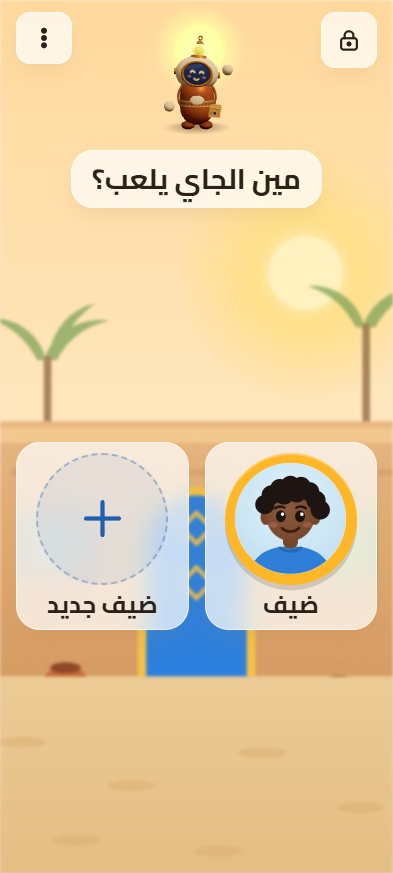
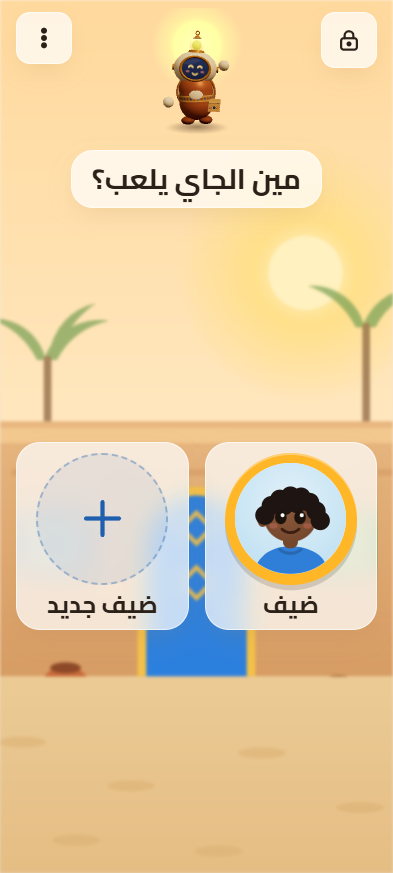
أفاتار ضيوف متنوعة بثلاث أعمار وأغطية رأس محتشمة، بحر أحمر عائم بزوايا دائرية، ترحيب أعلى المشهد، طفو سراج وتمايل النخيل، وشريط علوي أنسب للهاتف

Changed region(s): [[0.6412, 0.5258, 0.855, 0.6495], [0.3969, 0.0309, 0.6107, 0.1546]]

diff --git a/app/src/ui/GuestAvatars.tsx b/app/src/ui/GuestAvatars.tsx
@@ -1,77 +1,118 @@
-// Eight illustrated Sudanese children for guest mode, drawn in code (vector, crisp at any size, ~1 KB each).
-// Warm brown skin tones, varied hair, one girl with a tarha (headscarf), one boy in a white jalabiya collar.
+// Twelve illustrated Sudanese children for guest mode, drawn in code (vector, crisp at any size, ~1 KB each).
+// Three ages (small, middle, older) with their own proportions; warm brown skin tones; boys with varied hair, a white
+// jalabiya, a school shirt, a white taqiya, glasses; girls always modestly covered: colourful patterned tarhas, a
+// hijab wrapped round the face, and a niqab for older girls. Ids g1..g8 keep their place so saved guests keep theirs.
 
+type Age = 'small' | 'mid' | 'teen';
 type Look = {
-  id: string; gender: 'm' | 'f'; skin: string; skinShade: string; hair: string; hairStyle: 'curly' | 'short' | 'puffs' | 'braids' | 'tarha' | 'fade' | 'bun';
-  bg: string; shirt: string; collar?: 'jalabiya' | 'round' | 'school'; scarf?: string;
+  id: string; gender: 'm' | 'f'; age: Age; skin: string; skinShade: string; hair: string;
+  hairStyle?: 'curly' | 'short' | 'fade' | 'taqiya';
+  cover?: 'tarha' | 'hijab' | 'niqab'; scarf?: string; trim?: string; pattern?: 'dots' | 'stripes' | 'flowers';
+  bg: string; shirt: string; collar?: 'jalabiya' | 'round' | 'school'; glasses?: boolean;
 };
 
 export const GUEST_AVATARS: Look[] = [
-  { id: 'g1', gender: 'm', skin: '#8D5A3B', skinShade: '#74472C', hair: '#1E1512', hairStyle: 'curly', bg: '#BFE0F2', shirt: '#2F7FD8', collar: 'round' },
-  { id: 'g2', gender: 'm', skin: '#6E432B', skinShade: '#58331F', hair: '#16100D', hairStyle: 'fade', bg: '#FFE3A8', shirt: '#FFFFFF', collar: 'jalabiya' },
-  { id: 'g3', gender: 'm', skin: '#A06A45', skinShade: '#86553A', hair: '#2A1C15', hairStyle: 'short', bg: '#CFEBD3', shirt: '#1F9D61', collar: 'school' },
-  { id: 'g4', gender: 'm', skin: '#7A4A30', skinShade: '#633A24', hair: '#1A120E', hairStyle: 'curly', bg: '#F9D3C2', shirt: '#E8892B', collar: 'round' },
-  { id: 'g5', gender: 'f', skin: '#8D5A3B', skinShade: '#74472C', hair: '#1E1512', hairStyle: 'puffs', bg: '#F8D1E2', shirt: '#D9558F', collar: 'round' },
-  { id: 'g6', gender: 'f', skin: '#A06A45', skinShade: '#86553A', hair: '#2A1C15', hairStyle: 'tarha', bg: '#DCD3F3', shirt: '#7B61C9', scarf: '#F3B9CF' },
-  { id: 'g7', gender: 'f', skin: '#6E432B', skinShade: '#58331F', hair: '#16100D', hairStyle: 'braids', bg: '#FFE3A8', shirt: '#FFB627', collar: 'school' },
-  { id: 'g8', gender: 'f', skin: '#7A4A30', skinShade: '#633A24', hair: '#1A120E', hairStyle: 'bun', bg: '#BFE0F2', shirt: '#1F5FAD', collar: 'round' },
+  { id: 'g1', gender: 'm', age: 'small', skin: '#8D5A3B', skinShade: '#74472C', hair: '#1E1512', hairStyle: 'curly', bg: '#BFE0F2', shirt: '#2F7FD8', collar: 'round' },
+  { id: 'g2', gender: 'm', age: 'mid', skin: '#6E432B', skinShade: '#58331F', hair: '#16100D', hairStyle: 'fade', bg: '#FFE3A8', shirt: '#FFFFFF', collar: 'jalabiya' },
+  { id: 'g3', gender: 'm', age: 'teen', skin: '#A06A45', skinShade: '#86553A', hair: '#2A1C15', hairStyle: 'short', bg: '#CFEBD3', shirt: '#1F9D61', collar: 'school', glasses: true },
+  { id: 'g4', gender: 'm', age: 'small', skin: '#5E3824', skinShade: '#4A2A1A', hair: '#1A120E', hairStyle: 'curly', bg: '#F9D3C2', shirt: '#E8892B', collar: 'round' },
+  { id: 'g9', gender: 'm', age: 'mid', skin: '#93603F', skinShade: '#7A4C30', hair: '#1E1512', hairStyle: 'taqiya', bg: '#D7ECF7', shirt: '#FFFFFF', collar: 'jalabiya' },
+  { id: 'g10', gender: 'm', age: 'teen', skin: '#7A4A30', skinShade: '#633A24', hair: '#16100D', hairStyle: 'fade', bg: '#E6DDF7', shirt: '#5A4FB8', collar: 'round' },
+  { id: 'g5', gender: 'f', age: 'small', skin: '#8D5A3B', skinShade: '#74472C', hair: '#1E1512', cover: 'tarha', scarf: '#F07FAE', trim: '#FFFFFF', pattern: 'dots', bg: '#F8D1E2', shirt: '#D9558F', collar: 'round' },
+  { id: 'g6', gender: 'f', age: 'mid', skin: '#A06A45', skinShade: '#86553A', hair: '#2A1C15', cover: 'tarha', scarf: '#9C7FE0', trim: '#F5D36B', pattern: 'flowers', bg: '#DCD3F3', shirt: '#7B61C9' },
+  { id: 'g7', gender: 'f', age: 'small', skin: '#6E432B', skinShade: '#58331F', hair: '#16100D', cover: 'tarha', scarf: '#FFC23A', trim: '#E8892B', pattern: 'stripes', bg: '#FFE3A8', shirt: '#1FA3A3', collar: 'school' },
+  { id: 'g8', gender: 'f', age: 'teen', skin: '#7A4A30', skinShade: '#633A24', hair: '#1A120E', cover: 'hijab', scarf: '#2F5FA8', trim: '#8FB8EC', bg: '#BFE0F2', shirt: '#1F4F8F' },
+  { id: 'g11', gender: 'f', age: 'teen', skin: '#93603F', skinShade: '#7A4C30', hair: '#1A120E', cover: 'niqab', scarf: '#3A2C45', trim: '#B98FD0', bg: '#EFE3D2', shirt: '#3A2C45' },
+  { id: 'g12', gender: 'f', age: 'mid', skin: '#5E3824', skinShade: '#4A2A1A', hair: '#16100D', cover: 'hijab', scarf: '#2E9A6A', trim: '#BFE8CF', pattern: 'dots', bg: '#D6F0DE', shirt: '#1F7A52' },
 ];
 
-function Hair({ l }: { l: Look }) {
-  const h = l.hair;
+/** face proportions per age: small children have rounder faces and bigger eyes */
+const FACE: Record<Age, { rx: number; ry: number; cy: number; eye: number; eyeY: number; shoulders: number }> = {
+  small: { rx: 25, ry: 24, cy: 50, eye: 5.4, eyeY: 51, shoulders: 22 },
+  mid: { rx: 23, ry: 25, cy: 48, eye: 4.7, eyeY: 50, shoulders: 26 },
+  teen: { rx: 21, ry: 27, cy: 46, eye: 3.9, eyeY: 47, shoulders: 30 },
+};
+
+function Hair({ l, f }: { l: Look; f: typeof FACE[Age] }) {
+  const h = l.hair, top = f.cy - f.ry;
   switch (l.hairStyle) {
     case 'curly':
-      return <g fill={h}>{[[34, 30], [42, 24], [52, 21], [62, 22], [70, 27], [76, 35], [28, 39], [80, 44], [46, 30], [58, 28]].map(([x, y], i) => <circle key={i} cx={x} cy={y} r={9} />)}</g>;
+      return <g fill={h}>{[[34, 8], [42, 2], [52, -1], [62, 0], [70, 5], [76, 13], [28, 17], [80, 22], [46, 8], [58, 6]].map(([x, y], i) => <circle key={i} cx={x} cy={top + 6 + y} r={9} />)}</g>;
     case 'fade':
-      return <path d="M27 50c-2-17 9-29 25-29s27 12 25 29c-3-8-9-12-25-12s-22 4-25 12z" fill={h} />;
+      return <path d={`M${52 - f.rx - 2} ${f.cy}c-2-17 9-${f.ry + 4} ${f.rx + 2}-${f.ry + 4}s27 12 25 29c-3-8-9-12-25-12s-22 4-25 12z`} fill={h} transform={`translate(0 ${-2})`} />;
     case 'short':
-      return <path d="M26 48c-1-16 10-27 26-27 14 0 25 9 26 23-6-6-14-9-26-9-11 0-19 5-26 13z" fill={h} />;
-    case 'puffs':
-      return <g fill={h}><circle cx="24" cy="30" r="12" /><circle cx="80" cy="30" r="12" /><path d="M28 48c-1-15 10-26 24-26s25 11 24 26c-5-8-13-12-24-12s-19 4-24 12z" /></g>;
-    case 'braids':
-      return <g fill={h}><path d="M27 50c-2-17 9-29 25-29s27 12 25 29c-4-9-12-13-25-13s-21 4-25 13z" />
-        {[0, 1, 2].map(i => <circle key={'l' + i} cx={24} cy={56 + i * 9} r={5} />)}{[0, 1, 2].map(i => <circle key={'r' + i} cx={80} cy={56 + i * 9} r={5} />)}</g>;
-    case 'bun':
-      return <g fill={h}><circle cx="52" cy="17" r="10" /><path d="M27 50c-2-17 9-29 25-29s27 12 25 29c-4-9-12-13-25-13s-21 4-25 13z" /></g>;
-    case 'tarha':
-      return <path d="M18 104c0-34 4-52 10-62 6-12 14-19 24-19s18 7 24 19c6 10 10 28 10 62z" fill={l.scarf} />;
+      return <path d={`M${52 - f.rx - 1} ${f.cy}c-1-16 10-${f.ry + 2} ${f.rx + 1}-${f.ry + 2} 14 0 25 9 26 23-6-6-14-9-26-9-11 0-19 5-26 13z`} fill={h} />;
+    case 'taqiya':   // white crocheted cap over short hair
+      return <g><path d={`M${52 - f.rx} ${f.cy - 4}c0-14 10-${f.ry - 2} ${f.rx}-${f.ry - 2}s${f.rx} ${f.ry - 16} ${f.rx} ${f.ry - 2}z`} fill="#F7F3EA" />
+        {[0, 1, 2, 3, 4].map(i => <circle key={i} cx={36 + i * 8} cy={f.cy - 10} r={1.4} fill="#D9CFBC" />)}</g>;
+    default: return null;
   }
+}
+
+function Pattern({ l, id }: { l: Look; id: string }) {
+  if (!l.pattern || !l.trim) return null;
+  return (
+    <pattern id={id} width="10" height="10" patternUnits="userSpaceOnUse">
+      {l.pattern === 'dots' && <circle cx="5" cy="5" r="1.6" fill={l.trim} opacity=".85" />}
+      {l.pattern === 'stripes' && <rect width="10" height="2.6" fill={l.trim} opacity=".7" />}
+      {l.pattern === 'flowers' && <g fill={l.trim} opacity=".9"><circle cx="5" cy="3.6" r="1.3" /><circle cx="3.6" cy="5.4" r="1.3" /><circle cx="6.4" cy="5.4" r="1.3" /></g>}
+    </pattern>
+  );
 }
 
 export function GuestAvatar({ id, size = 112 }: { id: string; size?: number }) {
   const l = GUEST_AVATARS.find(a => a.id === id) ?? GUEST_AVATARS[0];
-  const uid = 'ga-' + l.id;
+  const f = FACE[l.age], uid = 'ga-' + l.id;
+  const scarfFill = l.pattern ? `url(#${uid}-pat)` : l.scarf;
+  const covered = !!l.cover;
   return (
     <svg width={size} height={size} viewBox="0 0 104 104" role="img" aria-label={l.gender === 'f' ? 'صورة بنت' : 'صورة ولد'}>
       <defs>
         <radialGradient id={uid + '-bg'} cx="50%" cy="35%" r="70%"><stop offset="0" stopColor="#fff" stopOpacity=".55" /><stop offset="1" stopColor="#fff" stopOpacity="0" /></radialGradient>
         <radialGradient id={uid + '-face'} cx="42%" cy="38%" r="65%"><stop offset="0" stopColor={l.skin} /><stop offset="1" stopColor={l.skinShade} /></radialGradient>
         <clipPath id={uid + '-c'}><circle cx="52" cy="52" r="52" /></clipPath>
+        <Pattern l={l} id={uid + '-pat'} />
       </defs>
       <g clipPath={`url(#${uid}-c)`}>
         <rect width="104" height="104" fill={l.bg} />
         <rect width="104" height="104" fill={`url(#${uid}-bg)`} />
-        {l.hairStyle === 'tarha' && <Hair l={l} />}
+        {/* the scarf behind the head and over the shoulders */}
+        {covered && <path d={`M${52 - f.shoulders - 16} 104c0-30 6-50 14-${60 - (f.cy - 46)}c6-12 14-19 24-19s18 7 24 19c8 10 14 30 14 ${60 - (f.cy - 46)}z`} fill={l.scarf} />}
+        {covered && l.pattern && <path d={`M${52 - f.shoulders - 16} 104c0-30 6-50 14-${60 - (f.cy - 46)}c6-12 14-19 24-19s18 7 24 19c8 10 14 30 14 ${60 - (f.cy - 46)}z`} fill={scarfFill} />}
         {/* shoulders */}
-        <path d="M14 104c2-18 18-26 38-26s36 8 38 26z" fill={l.shirt} />
-        {l.collar === 'jalabiya' && <path d="M44 79l8 12 8-12" stroke="#E2DACB" strokeWidth="3" fill="none" strokeLinecap="round" />}
-        {l.collar === 'school' && <path d="M40 78l12 9 12-9" fill="#FFFFFF" />}
-        {l.collar === 'round' && <path d="M42 79c5 5 15 5 20 0" stroke="rgba(0,0,0,.18)" strokeWidth="3" fill="none" strokeLinecap="round" />}
-        {/* neck + head */}
-        <rect x="45" y="64" width="14" height="16" rx="6" fill={l.skinShade} />
-        <ellipse cx="29" cy="51" rx="5" ry="7" fill={l.skinShade} />
-        <ellipse cx="75" cy="51" rx="5" ry="7" fill={l.skinShade} />
-        <ellipse cx="52" cy="48" rx="23" ry="25" fill={`url(#${uid}-face)`} />
-        {l.hairStyle !== 'tarha' ? <Hair l={l} /> : <path d="M29 44c2-14 11-21 23-21s21 7 23 21c-6-7-14-10-23-10s-17 3-23 10z" fill={l.scarf} opacity=".9" />}
-        {/* face */}
-        <ellipse cx="43" cy="50" rx="4.6" ry="5.4" fill="#1B120D" />
-        <ellipse cx="61" cy="50" rx="4.6" ry="5.4" fill="#1B120D" />
-        <circle cx="44.6" cy="48" r="1.6" fill="#fff" />
-        <circle cx="62.6" cy="48" r="1.6" fill="#fff" />
-        <path d="M37.5 42.5c2.5-2 6.5-2.2 9-.6M57.5 41.9c2.5-1.6 6.5-1.4 9 .6" stroke={l.hair} strokeWidth="2.2" strokeLinecap="round" fill="none" />
-        <ellipse cx="36" cy="58" rx="4" ry="2.6" fill="#E0726A" opacity=".35" />
-        <ellipse cx="68" cy="58" rx="4" ry="2.6" fill="#E0726A" opacity=".35" />
-        <path d="M44 61c4.5 4.5 11.5 4.5 16 0" stroke="#3B1F14" strokeWidth="2.6" strokeLinecap="round" fill="none" />
+        {!covered || l.cover === 'tarha' ? <path d={`M${52 - f.shoulders - 12} 104c2-18 18-26 ${f.shoulders + 12}-26s36 8 ${f.shoulders + 12} 26z`} fill={l.shirt} /> : null}
+        {l.collar === 'jalabiya' && <path d="M44 81l8 12 8-12" stroke="#E2DACB" strokeWidth="3" fill="none" strokeLinecap="round" />}
+        {l.collar === 'school' && <path d="M40 80l12 9 12-9" fill="#FFFFFF" />}
+        {l.collar === 'round' && <path d="M42 81c5 5 15 5 20 0" stroke="rgba(0,0,0,.18)" strokeWidth="3" fill="none" strokeLinecap="round" />}
+        {/* neck + ears (hidden under a hijab or niqab) */}
+        {l.cover !== 'hijab' && l.cover !== 'niqab' && <rect x="45" y={f.cy + f.ry - 10} width="14" height="16" rx="6" fill={l.skinShade} />}
+        {!covered && <><ellipse cx={52 - f.rx - 1} cy={f.cy + 3} rx="5" ry="7" fill={l.skinShade} /><ellipse cx={52 + f.rx + 1} cy={f.cy + 3} rx="5" ry="7" fill={l.skinShade} /></>}
+        <ellipse cx="52" cy={f.cy} rx={f.rx} ry={f.ry} fill={`url(#${uid}-face)`} />
+        {!covered && <Hair l={l} f={f} />}
+        {/* scarf frame round the face; a hijab also closes under the chin */}
+        {covered && <path d={`M${52 - f.rx - 4} ${f.cy + 6}c0-${f.ry + 2} 10-${f.ry + 10} ${f.rx + 4}-${f.ry + 10}s${f.rx + 4} ${8} ${f.rx + 4} ${f.ry + 10}c-5-${f.ry - 8}-13-${f.ry - 4}-${f.rx + 4}-${f.ry - 4}s-${f.rx - 1} ${4}-${f.rx + 4} ${f.ry - 4}z`} fill={l.scarf} stroke={l.scarf} strokeWidth="1" />}
+        {covered && l.pattern && <path d={`M${52 - f.rx - 4} ${f.cy + 6}c0-${f.ry + 2} 10-${f.ry + 10} ${f.rx + 4}-${f.ry + 10}s${f.rx + 4} ${8} ${f.rx + 4} ${f.ry + 10}c-5-${f.ry - 8}-13-${f.ry - 4}-${f.rx + 4}-${f.ry - 4}s-${f.rx - 1} ${4}-${f.rx + 4} ${f.ry - 4}z`} fill={scarfFill} />}
+        {(l.cover === 'hijab' || l.cover === 'niqab') && <path d={`M${52 - f.rx - 4} ${f.cy + 4}c2 ${f.ry} 12 ${f.ry + 8} ${f.rx + 4} ${f.ry + 8}s${f.rx + 2}-8 ${f.rx + 4}-${f.ry + 8}c-4 ${f.ry - 10}-12 ${f.ry - 4}-${f.rx + 4} ${f.ry - 4}s-${f.rx} -6-${f.rx + 4}-${f.ry - 4}z`} fill={l.scarf} />}
+        {l.cover === 'hijab' && <path d={`M${52 - f.rx - 8} 104c4-14 14-20 ${f.rx + 8}-22s${f.rx + 4} 8 ${f.rx + 8} 22z`} fill={l.scarf} />}
+        {/* eyes and brows */}
+        <ellipse cx="43" cy={f.eyeY} rx={f.eye} ry={f.eye * 1.17} fill="#1B120D" />
+        <ellipse cx="61" cy={f.eyeY} rx={f.eye} ry={f.eye * 1.17} fill="#1B120D" />
+        <circle cx="44.6" cy={f.eyeY - 2} r={f.eye * 0.34} fill="#fff" />
+        <circle cx="62.6" cy={f.eyeY - 2} r={f.eye * 0.34} fill="#fff" />
+        <path d={`M37.5 ${f.eyeY - 7.5}c2.5-2 6.5-2.2 9-.6M57.5 ${f.eyeY - 8.1}c2.5-1.6 6.5-1.4 9 .6`} stroke={l.hair} strokeWidth={l.age === 'teen' ? 2.6 : 2.2} strokeLinecap="round" fill="none" />
+        {l.glasses && <g stroke="#2A1C15" strokeWidth="1.8" fill="rgba(255,255,255,.15)"><circle cx="43" cy={f.eyeY} r="7" /><circle cx="61" cy={f.eyeY} r="7" /><path d={`M50 ${f.eyeY}h4`} /></g>}
+        {/* niqab: the face covered below the eyes, with a soft fold */}
+        {l.cover === 'niqab' ? (
+          <g><path d={`M${52 - f.rx - 3} ${f.eyeY + 7}h${2 * f.rx + 6}c0 ${f.ry} -10 ${f.ry + 8} -${f.rx + 3} ${f.ry + 10}s-${f.rx + 3}-10-${f.rx + 3}-${f.ry + 10}z`} fill={l.scarf} />
+            <path d={`M${52 - f.rx} ${f.eyeY + 8}h${2 * f.rx}`} stroke={l.trim} strokeWidth="2" strokeLinecap="round" />
+            <path d={`M48 ${f.eyeY + 18}c3 3 5 3 8 0`} stroke="rgba(255,255,255,.18)" strokeWidth="2" fill="none" /></g>
+        ) : (
+          <>
+            <ellipse cx="36" cy={f.eyeY + 8} rx="4" ry="2.6" fill="#E0726A" opacity=".35" />
+            <ellipse cx="68" cy={f.eyeY + 8} rx="4" ry="2.6" fill="#E0726A" opacity=".35" />
+            <path d={`M44 ${f.eyeY + 11}c4.5 4.5 11.5 4.5 16 0`} stroke="#3B1F14" strokeWidth="2.6" strokeLinecap="round" fill="none" />
+          </>
+        )}
       </g>
     </svg>
   );

diff --git a/app/src/three/SudanMap.tsx b/app/src/three/SudanMap.tsx
@@ -24,7 +24,6 @@ const OUTLINE: [number, number][] = [
   [27.9, 9.6], [26.6, 10.1], [25.3, 10.3], [24.5, 9.4], [23.6, 9.0], [23.0, 9.9], [22.5, 11.0], [22.8, 12.4], [22.1, 13.2],
   [22.2, 13.9], [22.7, 14.6], [22.9, 15.6], [23.6, 15.9], [24.0, 17.2], [24.0, 19.5],
 ];
-const RED_SEA: [number, number][] = [[36.9, 22.0], [37.15, 21.0], [37.3, 20.2], [37.22, 19.6], [37.35, 19.1], [37.6, 18.7], [38.1, 18.3], [38.6, 18.0], [39.6, 17.6], [42, 17.6], [42, 23.5], [35.6, 23.5]];
 const NILES: [number, number][][] = [
   [[32.75, 12.0], [32.66, 13.17], [32.3, 13.99], [32.4, 14.9], [32.53, 15.6]],                               // White Nile
   [[34.9, 10.95], [34.38, 11.8], [33.9, 12.8], [33.6, 13.55], [33.52, 14.4], [33.1, 15.1], [32.53, 15.6]],       // Blue Nile
@@ -66,22 +65,43 @@ function Rivers() {
   return <group>{tubes.map((g, i) => <mesh key={i} geometry={g}><meshLambertMaterial color={i === 1 ? '#2F6FC0' : '#4FA3D1'} emissive="#1F5FAD" emissiveIntensity={0.15} /></mesh>)}</group>;
 }
 
+/** The Red Sea as a floating water channel with rounded corners, parallel to the east coast (between Sudan and the
+ *  Arabian shore): the same thickness as the land, warm turquoise deepening to the middle, a soft sand rim, its own
+ *  floating shadow and a slow shimmer. */
+const SEA_A = P(37.95, 22.7), SEA_B = P(40.35, 16.45), SEA_W = 1.9, SEA_R = 0.62;
 function Sea() {
-  // shallow turquoise at the coast to deep blue offshore, fading softly at the sea's outer edge
-  const geo = useMemo(() => {
-    const g = new THREE.ShapeGeometry(new THREE.Shape(RED_SEA.map(([a, b]) => P(a, b))), 24);
-    g.rotateX(-Math.PI / 2);
-    const pos = g.attributes.position, xs: number[] = [];
-    for (let i = 0; i < pos.count; i++) xs.push(pos.getX(i));
-    const lo = Math.min(...xs), hi = Math.max(...xs), col = new Float32Array(pos.count * 4);
-    const shallow = new THREE.Color('#5ED6D0'), deep = new THREE.Color('#1F7FA8'), c = new THREE.Color();
-    for (let i = 0; i < pos.count; i++) {
-      const k = (xs[i] - lo) / (hi - lo || 1); c.copy(shallow).lerp(deep, Math.min(1, k * 1.3));
-      col.set([c.r, c.g, c.b, 1 - THREE.MathUtils.smoothstep(k, 0.75, 1) * 0.85], i * 4);
-    }
-    g.setAttribute('color', new THREE.BufferAttribute(col, 4)); return g;
+  const { geo, mid, ang, len, tex } = useMemo(() => {
+    const d = SEA_B.clone().sub(SEA_A), len = d.length(), ang = Math.atan2(d.y, d.x), mid = SEA_A.clone().add(SEA_B).multiplyScalar(0.5);
+    const hw = SEA_W / 2, hl = len / 2, r = SEA_R, sh = new THREE.Shape();
+    sh.moveTo(-hl + r, -hw); sh.lineTo(hl - r, -hw); sh.quadraticCurveTo(hl, -hw, hl, -hw + r); sh.lineTo(hl, hw - r); sh.quadraticCurveTo(hl, hw, hl - r, hw);
+    sh.lineTo(-hl + r, hw); sh.quadraticCurveTo(-hl, hw, -hl, hw - r); sh.lineTo(-hl, -hw + r); sh.quadraticCurveTo(-hl, -hw, -hl + r, -hw);
+    const g = new THREE.ExtrudeGeometry(sh, { depth: LAND_TOP - 0.2, bevelEnabled: true, bevelThickness: 0.2, bevelSize: 0.22, bevelSegments: 3, curveSegments: 10 });
+    // the top is painted by a texture laid over the channel (the extruded cap has no inner points to colour):
+    // a soft sand rim, then warm turquoise deepening towards the middle
+    const cv = document.createElement('canvas'), W = 512, H = Math.round(512 * hw / hl); cv.width = W; cv.height = H;
+    const x = cv.getContext('2d')!, rr = (x0: number, y0: number, w: number, h: number, r: number) => { x.beginPath(); x.roundRect(x0, y0, w, h, r); };
+    x.fillStyle = '#E2C08C'; x.fillRect(0, 0, W, H);
+    const inset = H * 0.11, grad = x.createLinearGradient(0, inset, 0, H - inset);
+    grad.addColorStop(0, '#86E0D6'); grad.addColorStop(0.5, '#2696AE'); grad.addColorStop(1, '#86E0D6');
+    rr(inset, inset, W - 2 * inset, H - 2 * inset, SEA_R / (2 * hw) * H); x.fillStyle = grad; x.fill();
+    for (let i = 0; i < 18; i++) { x.strokeStyle = 'rgba(255,255,255,.18)'; x.lineWidth = 2; const yy = inset + Math.random() * (H - 2 * inset), xx = inset + Math.random() * (W - 2 * inset - 60); x.beginPath(); x.moveTo(xx, yy); x.quadraticCurveTo(xx + 30, yy - 5, xx + 60, yy); x.stroke(); }
+    const tex = new THREE.CanvasTexture(cv); tex.colorSpace = THREE.SRGBColorSpace;
+    tex.repeat.set(1 / (2 * hl), 1 / (2 * hw)); tex.offset.set(0.5, 0.5);
+    return { geo: g, mid, ang, len, tex };
   }, []);
-  return <mesh geometry={geo} position-y={0.12}><meshLambertMaterial vertexColors transparent color="#ffffff" emissive="#0E5A73" emissiveIntensity={0.12} /></mesh>;
+  const ref = useRef<THREE.MeshLambertMaterial>(null!);
+  useFrame(s => { ref.current.emissiveIntensity = 0.1 + Math.sin(s.clock.elapsedTime * 1.1) * 0.04; });
+  const shadow = useMemo(() => {
+    const c = document.createElement('canvas'); c.width = c.height = 128; const x = c.getContext('2d')!;
+    const g = x.createRadialGradient(64, 64, 8, 64, 64, 64); g.addColorStop(0, 'rgba(120,80,40,0.34)'); g.addColorStop(1, 'rgba(120,80,40,0)');
+    x.fillStyle = g; x.fillRect(0, 0, 128, 128); return new THREE.CanvasTexture(c);
+  }, []);
+  return (
+    <group position={[mid.x, 0, -mid.y]} rotation-y={ang}>
+      <group rotation-x={-Math.PI / 2}><mesh geometry={geo}><meshLambertMaterial ref={ref} map={tex} emissive="#0E6A7A" emissiveIntensity={0.1} /></mesh></group>
+      <mesh rotation-x={-Math.PI / 2} position-y={-0.6} scale={[len * 1.25, SEA_W * 2.2, 1]}><planeGeometry /><meshBasicMaterial map={shadow} transparent depthWrite={false} /></mesh>
+    </group>
+  );
 }
 
 /** soft shadow under the floating map (a radial texture, no box) */

diff --git a/app/src/three/town/KassalaTown.tsx b/app/src/three/town/KassalaTown.tsx
@@ -81,7 +81,7 @@ function Static({ w, u, water, density }: { w: World; u: ReviveUniforms; water: 
   const M = {
     ground: useMat(u, { green: w.tint ? 'soft' : true }), plain: useMat(u), river: useMat(u, { offset: 1 }), roads: useMat(u, { offset: 2 }),
     curb: useMat(u, { offset: 3 }), street: useMat(u, { offset: 4 }), rock: useMat(u),
-    tree: useMat(u, { grow: true, sway: 0.03 }), palm: useMat(u, { grow: true, sway: 0.025 }), grass: useMat(u, { grow: true, sway: 0.12, double: true }),
+    tree: useMat(u, { grow: true, sway: 0.03 }), palm: useMat(u, { grow: true, sway: 0.05 }), grass: useMat(u, { grow: true, sway: 0.12, double: true }),
     build: useMat(u, { build: true }), shrub: useMat(u, { grow: true, sway: 0.05 }), side: useMat(u, { offset: 2 }), alley: useMat(u, { offset: 3, appear: true }),
     rock0: useMat(u, { detail: details[0]?.t, detailBox: details[0]?.box }), rock1: useMat(u, { detail: details[1]?.t, detailBox: details[1]?.box }),
   };

diff --git a/app/src/three/Siraj.tsx b/app/src/three/Siraj.tsx
@@ -60,7 +60,8 @@ export function Siraj({ action = 'idle', glow = 0.6, stamps = 0, scale = 1, movi
     if (since.current.action !== action || since.current.t < 0) since.current = { action, t };
     const held = t - since.current.t;
     // breathing + per-action body language
-    let bodyY = Math.sin(t * 2.2) * 0.03, bodyRotZ = 0, headRotZ = Math.sin(t * 1.1) * 0.04, headRotX = 0, headRotY = 0;
+    // a soft, continuous float (he hovers a little and drifts side to side), with his breathing on top
+    let bodyY = 0.06 + Math.sin(t * 1.4) * 0.06 + Math.sin(t * 2.2) * 0.015, bodyRotZ = Math.sin(t * 0.9) * 0.03, headRotZ = Math.sin(t * 1.1) * 0.04, headRotX = 0, headRotY = 0;
     let lx = -0.62, ly = 0.55 + Math.sin(t * 2.2 + 1) * 0.04, rx = 0.62, ry = 0.55 + Math.sin(t * 2.2) * 0.04;
     let face: Face = FACE_OF[action];
     switch (action) {

diff --git a/app/src/styles/theme.css b/app/src/styles/theme.css
@@ -142,3 +142,13 @@ input[type=range].vol { width: 100%; accent-color: var(--c-gold); height: 36px; 
 .certificate b { font-size: 22px; }
 .stamp-title { display: flex; flex-direction: column; gap: 2px; }
 .stamp-place { font-size: 18px; font-weight: 700; color: var(--c-inkSoft); }
+
+/* phones: the world title capsule stays clear of the menu button */
+@media (max-width: 480px) {
+  .topbar { gap: 6px; }
+  .topbar-title { max-width: 46vw; font-size: 18px; }
+  .path .topbar .world-pill { gap: 8px; padding: 0 12px; min-height: 44px; }
+  .path .topbar .world-pill-name { font-size: 18px; white-space: nowrap; }
+  .path .topbar .world-pill-bar { width: 44px; }
+  .player-pill { padding: 3px 4px 3px 10px; gap: 6px; max-width: 34vw; }
+}

diff --git a/app/src/screens/Path.tsx b/app/src/screens/Path.tsx
@@ -55,8 +55,9 @@ export function Path() {
   useEffect(() => {
     if (celebrate || GREETED.has(world)) return;
     GREETED.add(world);
-    setLine(`أهلًا بيك في ${placeName(world)}!`); setAction('wave');
-    const t = setTimeout(() => setLine(null), 2600);
+    // the welcome slides in at the top of the scene (like the celebration banner), never over the buildings
+    setToast(`أهلًا بيك في ${placeName(world)}!`); setAction('wave');
+    const t = setTimeout(() => setToast(null), 2800);
     return () => clearTimeout(t);
   }, [world]); // eslint-disable-line react-hooks/exhaustive-deps
   useEffect(() => {
